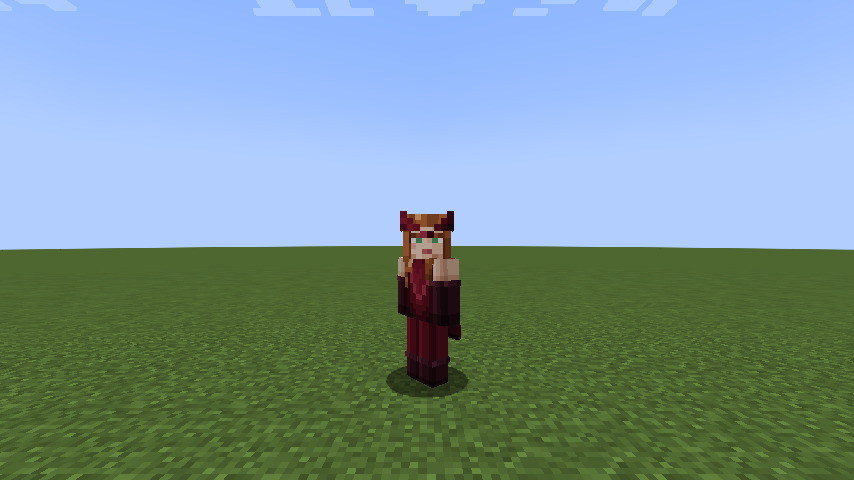
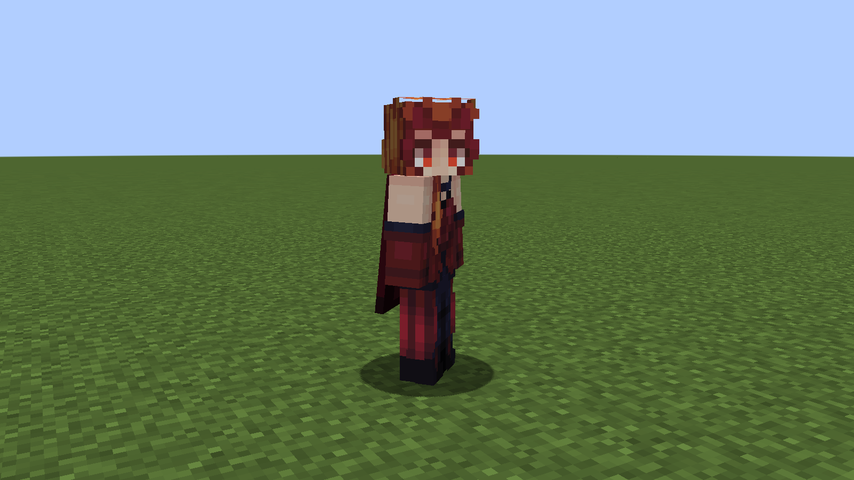
New Scarlet Witch skin; build and release the jar with GitHub Actions
- Wanda's suit is now the community skin "Scarlet Witch" from
  minecraftskins.com (skin 18465369): copper hair, glowing red eyes,
  burgundy suit and her own crown. The crown model is hidden while she is
  transformed so the skin's crown shows; on anyone else the crown model
  still shows. The hair painted on her cape is recolored to match.
- .github/workflows/build.yml builds the mod and runs the GameTests on
  every push and pull request, and publishes the jar as a GitHub Release
  for every push to main (and for v* tags).
- Screenshots of Wanda, the README (download, CI, credits) and both design
  docs updated.

Claude-Session: https://claude.ai/code/session_01JvnzpYhRHmSPGjDVaUfbSu

diff --git a/src/main/java/com/kolodkingal/enhanced/item/WandaCrownItem.java b/src/main/java/com/kolodkingal/enhanced/item/WandaCrownItem.java
@@ -1,12 +1,20 @@
 package com.kolodkingal.enhanced.item;
 
+import com.kolodkingal.enhanced.Enhanced;
+import com.kolodkingal.enhanced.power.Power;
+import com.kolodkingal.enhanced.power.Powers;
 import net.minecraft.ChatFormatting;
 import net.minecraft.core.Holder;
 import net.minecraft.network.chat.Component;
+import net.minecraft.resources.ResourceLocation;
+import net.minecraft.world.entity.Entity;
+import net.minecraft.world.entity.EquipmentSlot;
+import net.minecraft.world.entity.player.Player;
 import net.minecraft.world.item.ArmorItem;
 import net.minecraft.world.item.ArmorMaterial;
 import net.minecraft.world.item.ItemStack;
 import net.minecraft.world.item.TooltipFlag;
+import org.jetbrains.annotations.Nullable;
 
 import java.util.List;
 
@@ -17,6 +25,15 @@ import java.util.List;
 public class WandaCrownItem extends ArmorItem {
     public WandaCrownItem(Holder<ArmorMaterial> material, Type type, Properties properties) {
         super(material, type, properties);
+    }
+
+    /** An all-transparent armor texture: the transformed Scarlet Witch's skin already draws her crown. */
+    private static final ResourceLocation HIDDEN = Enhanced.id("textures/models/armor/hidden.png");
+
+    /** On the Scarlet Witch the suit's own crown shows; on anyone else the crown model does. */
+    @Override
+    public @Nullable ResourceLocation getArmorTexture(ItemStack stack, Entity entity, EquipmentSlot slot, ArmorMaterial.Layer layer, boolean innerModel) {
+        return entity instanceof Player player && Powers.is(player, Power.SCARLET_WITCH) ? HIDDEN : null;
     }
 
     @Override

diff --git a/README.md b/README.md
@@ -9,6 +9,9 @@ And if you're lucky enough to survive Wanda's Hex wall, **Photon**.
 Original hero concepts by Eilon Kolodkin-Gal. The full design, with every rule and
 number, is in [docs/DESIGN.md](docs/DESIGN.md) (Hebrew: [docs/DESIGN.he.md](docs/DESIGN.he.md)).
 
+**Download:** every push to `main` builds the mod, runs the in-game tests and publishes the jar
+on the [Releases](../../releases) page. The newest build is always marked *Latest*.
+
 ![The heroes](docs/screenshots/all-heroes.png)
 
 | Magneto | Scarlet Witch | The Hex |
@@ -81,6 +84,9 @@ alphabetical order is played; remove it to go back to *Sweet Dreams*.
 
 You need Java 21.
 
+GitHub Actions (`.github/workflows/build.yml`) runs the same build and the GameTests on every
+push and pull request, and publishes a release for every push to `main` (or a `v*` tag).
+
 ```sh
 ./gradlew build              # the mod jar ends up in build/libs/
 ./gradlew runClient          # play in a development client
@@ -89,6 +95,13 @@ You need Java 21.
 
 To install, copy `build/libs/enhanced-<version>.jar` into the `mods` folder of a NeoForge
 1.21.1 instance.
+
+## Credits
+
+* Hero concepts: Eilon Kolodkin-Gal.
+* Scarlet Witch skin: the community skin
+  ["Scarlet Witch"](https://www.minecraftskins.com/skin/18465369/scarlet-witch/) from minecraftskins.com.
+* *Sweet Dreams (Are Made of This)*: Eurythmics. Bundled for personal use only.
 
 ## For server owners
 

diff --git a/docs/DESIGN.he.md b/docs/DESIGN.he.md
@@ -179,8 +179,10 @@
   G . G      R = Block of Redstone
   ```
 * כשמכשפת השני חובשת את הכתר היא **עוברת טרנספורמציה**:
-  * הסקין שלה הופך ל**חליפה המלאה של וונדה מהסדרה *וונדה-ויז'ן*** (חליפה וגלימה
-    באדום כהה ושחור).
+  * הסקין שלה הופך ל**חליפה של מכשפת השני**: שיער נחושתי, עיניים אדומות זוהרות, החליפה
+    בצבע בורדו והכתר שלה, עם גלימה בורדו. **(נוסף)** הסקין הוא הסקין הקהילתי
+    ["Scarlet Witch"](https://www.minecraftskins.com/skin/18465369/scarlet-witch/) מהאתר
+    minecraftskins.com. הכתר מצויר כבר בתוך הסקין, ולכן דגם הכתר מוסתר כשהיא בשינוי צורה.
   * **מקסימום חיים 40** (20 לבבות במקום 10).
   * **שריון ששווה לסט יהלום מלא** (20 נקודות שריון, 8 קשיחות).
   * אף פעם לא נשבר.

diff --git a/docs/DESIGN.md b/docs/DESIGN.md
@@ -180,8 +180,11 @@ To touch the stone, hold the scepter and **right-click** (use it):
   G . G      R = Block of Redstone
   ```
 * When the Scarlet Witch wears the crown she **transforms**:
-  * Her skin becomes **Wanda's full suit from *WandaVision*** (crimson and black
-    suit and cape).
+  * Her skin becomes **the Scarlet Witch's suit**: copper hair, glowing red eyes, the
+    burgundy suit and her crown, with a burgundy cape. **(added)** The skin is the community
+    skin ["Scarlet Witch"](https://www.minecraftskins.com/skin/18465369/scarlet-witch/) from
+    minecraftskins.com; it draws its own crown, so the crown model is hidden while she is
+    transformed.
   * **Max health 40** (20 hearts instead of 10).
   * **Armor equal to a full Diamond set** (20 armor, 8 toughness).
   * Never breaks.
